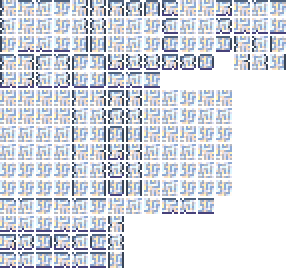
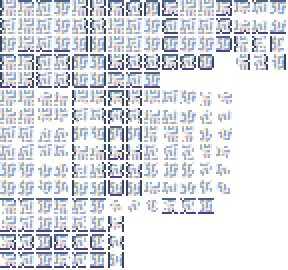
Tile updates

diff --git a/Content/Biomes/GraymatterBiome.cs b/Content/Biomes/GraymatterBiome.cs
@@ -19,6 +19,8 @@ namespace StarlightRiver.Content.Biomes
 
 		public List<Vector2> thinkerPositions;
 
+		public Vector2 lastGrayPos;
+
 		public static ScreenTarget hallucinationMap;
 		public static ScreenTarget overHallucinationMap;
 
@@ -57,10 +59,16 @@ namespace StarlightRiver.Content.Biomes
 		{
 			if (player == Main.LocalPlayer)
 			{
-				if (player.HasBuff(ModContent.BuffType<CrimsonHallucination>()) && fullscreenTimer < 60)
-					fullscreenTimer++;
+				if (player.HasBuff(ModContent.BuffType<CrimsonHallucination>()))
+				{
+					lastGrayPos = player.Center;
+					if (fullscreenTimer < 40)
+						fullscreenTimer++;
+				}
 				else if (fullscreenTimer > 0)
+				{
 					fullscreenTimer--;
+				}
 			}
 		}
 
@@ -69,10 +77,9 @@ namespace StarlightRiver.Content.Biomes
 			onDrawHallucinationMap?.Invoke(spriteBatch);
 
 			// Draw the screen overlay for when the player is actively standing on gray matter
-			Texture2D glow = ModContent.Request<Texture2D>("StarlightRiver/Assets/Keys/GlowAlpha").Value;
-
-			spriteBatch.Draw(glow, Main.LocalPlayer.Center - Main.screenPosition, null, new Color(1, 1, 1f, 0), 0, glow.Size() / 2f, Main.screenWidth / glow.Width * (fullscreenTimer / 20f), 0, 0);
-			spriteBatch.Draw(glow, Main.LocalPlayer.Center - Main.screenPosition, null, new Color(1, 1, 1f, 0), 0, glow.Size() / 2f, Main.screenWidth / glow.Width * (fullscreenTimer / 20f), 0, 0);
+			Texture2D glow = Assets.Keys.GlowAlpha.Value;
+			spriteBatch.Draw(glow, lastGrayPos - Main.screenPosition, null, new Color(1, 1, 1f, 0), 0, glow.Size() / 2f, Main.screenWidth / glow.Width * (fullscreenTimer / 9f), 0, 0);
+			spriteBatch.Draw(glow, lastGrayPos - Main.screenPosition, null, new Color(1, 1, 1f, 0), 0, glow.Size() / 2f, Main.screenWidth / glow.Width * (fullscreenTimer / 9f), 0, 0);
 		}
 
 		public void DrawOverHallucinationMap(SpriteBatch spriteBatch)

diff --git a/Content/Tiles/Crimson/GrayMatter.cs b/Content/Tiles/Crimson/GrayMatter.cs
@@ -16,6 +16,7 @@ namespace StarlightRiver.Content.Tiles.Crimson
 		public override void Load()
 		{
 			GraymatterBiome.onDrawHallucinationMap += DrawTileMap;
+			GraymatterBiome.onDrawOverPerTile += DrawRealVersion;
 		}
 
 		public override void SetStaticDefaults()
@@ -37,7 +38,7 @@ namespace StarlightRiver.Content.Tiles.Crimson
 
 		private void DrawTileMap(SpriteBatch spriteBatch)
 		{
-			Texture2D glow = ModContent.Request<Texture2D>("StarlightRiver/Assets/Keys/GlowAlpha").Value;
+			Texture2D glow = Assets.Keys.GlowAlpha.Value;
 			var pos = (Main.screenPosition / 16).ToPoint16();
 
 			int width = Main.screenWidth / 16 + 1;
@@ -67,9 +68,21 @@ namespace StarlightRiver.Content.Tiles.Crimson
 						}
 
 						// Draw to map
-						spriteBatch.Draw(glow, drawPos, null, color, 0, glow.Size() / 2f, 1.5f, 0, 0);
+						spriteBatch.Draw(glow, drawPos, null, color, 0, glow.Size() / 2f, 1.7f, 0, 0);
 					}
 				}
+			}
+		}
+
+		private void DrawRealVersion(SpriteBatch spriteBatch, int x, int y)
+		{
+			var target = new Point16(x, y);
+			Tile tile = Framing.GetTileSafely(target);
+
+			if (tile.TileType == ModContent.TileType<GrayMatter>())
+			{
+				Texture2D tex = Assets.Tiles.Crimson.GrayMatterOver.Value;
+				spriteBatch.Draw(tex, target.ToVector2() * 16 - Main.screenPosition, new Rectangle(tile.TileFrameX, tile.TileFrameY, 16, 16), Color.White);
 			}
 		}
 

diff --git a/Content/Tiles/Crimson/Dendrite.cs b/Content/Tiles/Crimson/Dendrite.cs
@@ -25,7 +25,7 @@ namespace StarlightRiver.Content.Tiles.Crimson
 
 			if (tile.TileType == ModContent.TileType<Dendrite>())
 			{
-				Texture2D tex = ModContent.Request<Texture2D>("StarlightRiver/Assets/Tiles/Crimson/DendriteReal").Value;
+				Texture2D tex = Assets.Tiles.Crimson.DendriteReal.Value;
 				spriteBatch.Draw(tex, target.ToVector2() * 16 - Main.screenPosition, new Rectangle(tile.TileFrameX, tile.TileFrameY, 16, 16), Color.White * 0.8f);
 			}
 		}
@@ -35,14 +35,13 @@ namespace StarlightRiver.Content.Tiles.Crimson
 			Main.tileSolid[Type] = true;
 			Main.tileBlockLight[Type] = true;
 
-			Main.tileMerge[Type][TileID.Dirt] = true;
-			Main.tileMerge[TileID.Dirt][Type] = true;
-
 			Main.tileMerge[Type][TileID.CrimsonGrass] = true;
 			Main.tileMerge[TileID.CrimsonGrass][Type] = true;
 
 			Main.tileMerge[Type][TileID.Crimstone] = true;
 			Main.tileMerge[TileID.Crimstone][Type] = true;
+
+			Main.tileMergeDirt[Type] = true;
 
 			HitSound = Terraria.ID.SoundID.Tink;
 
